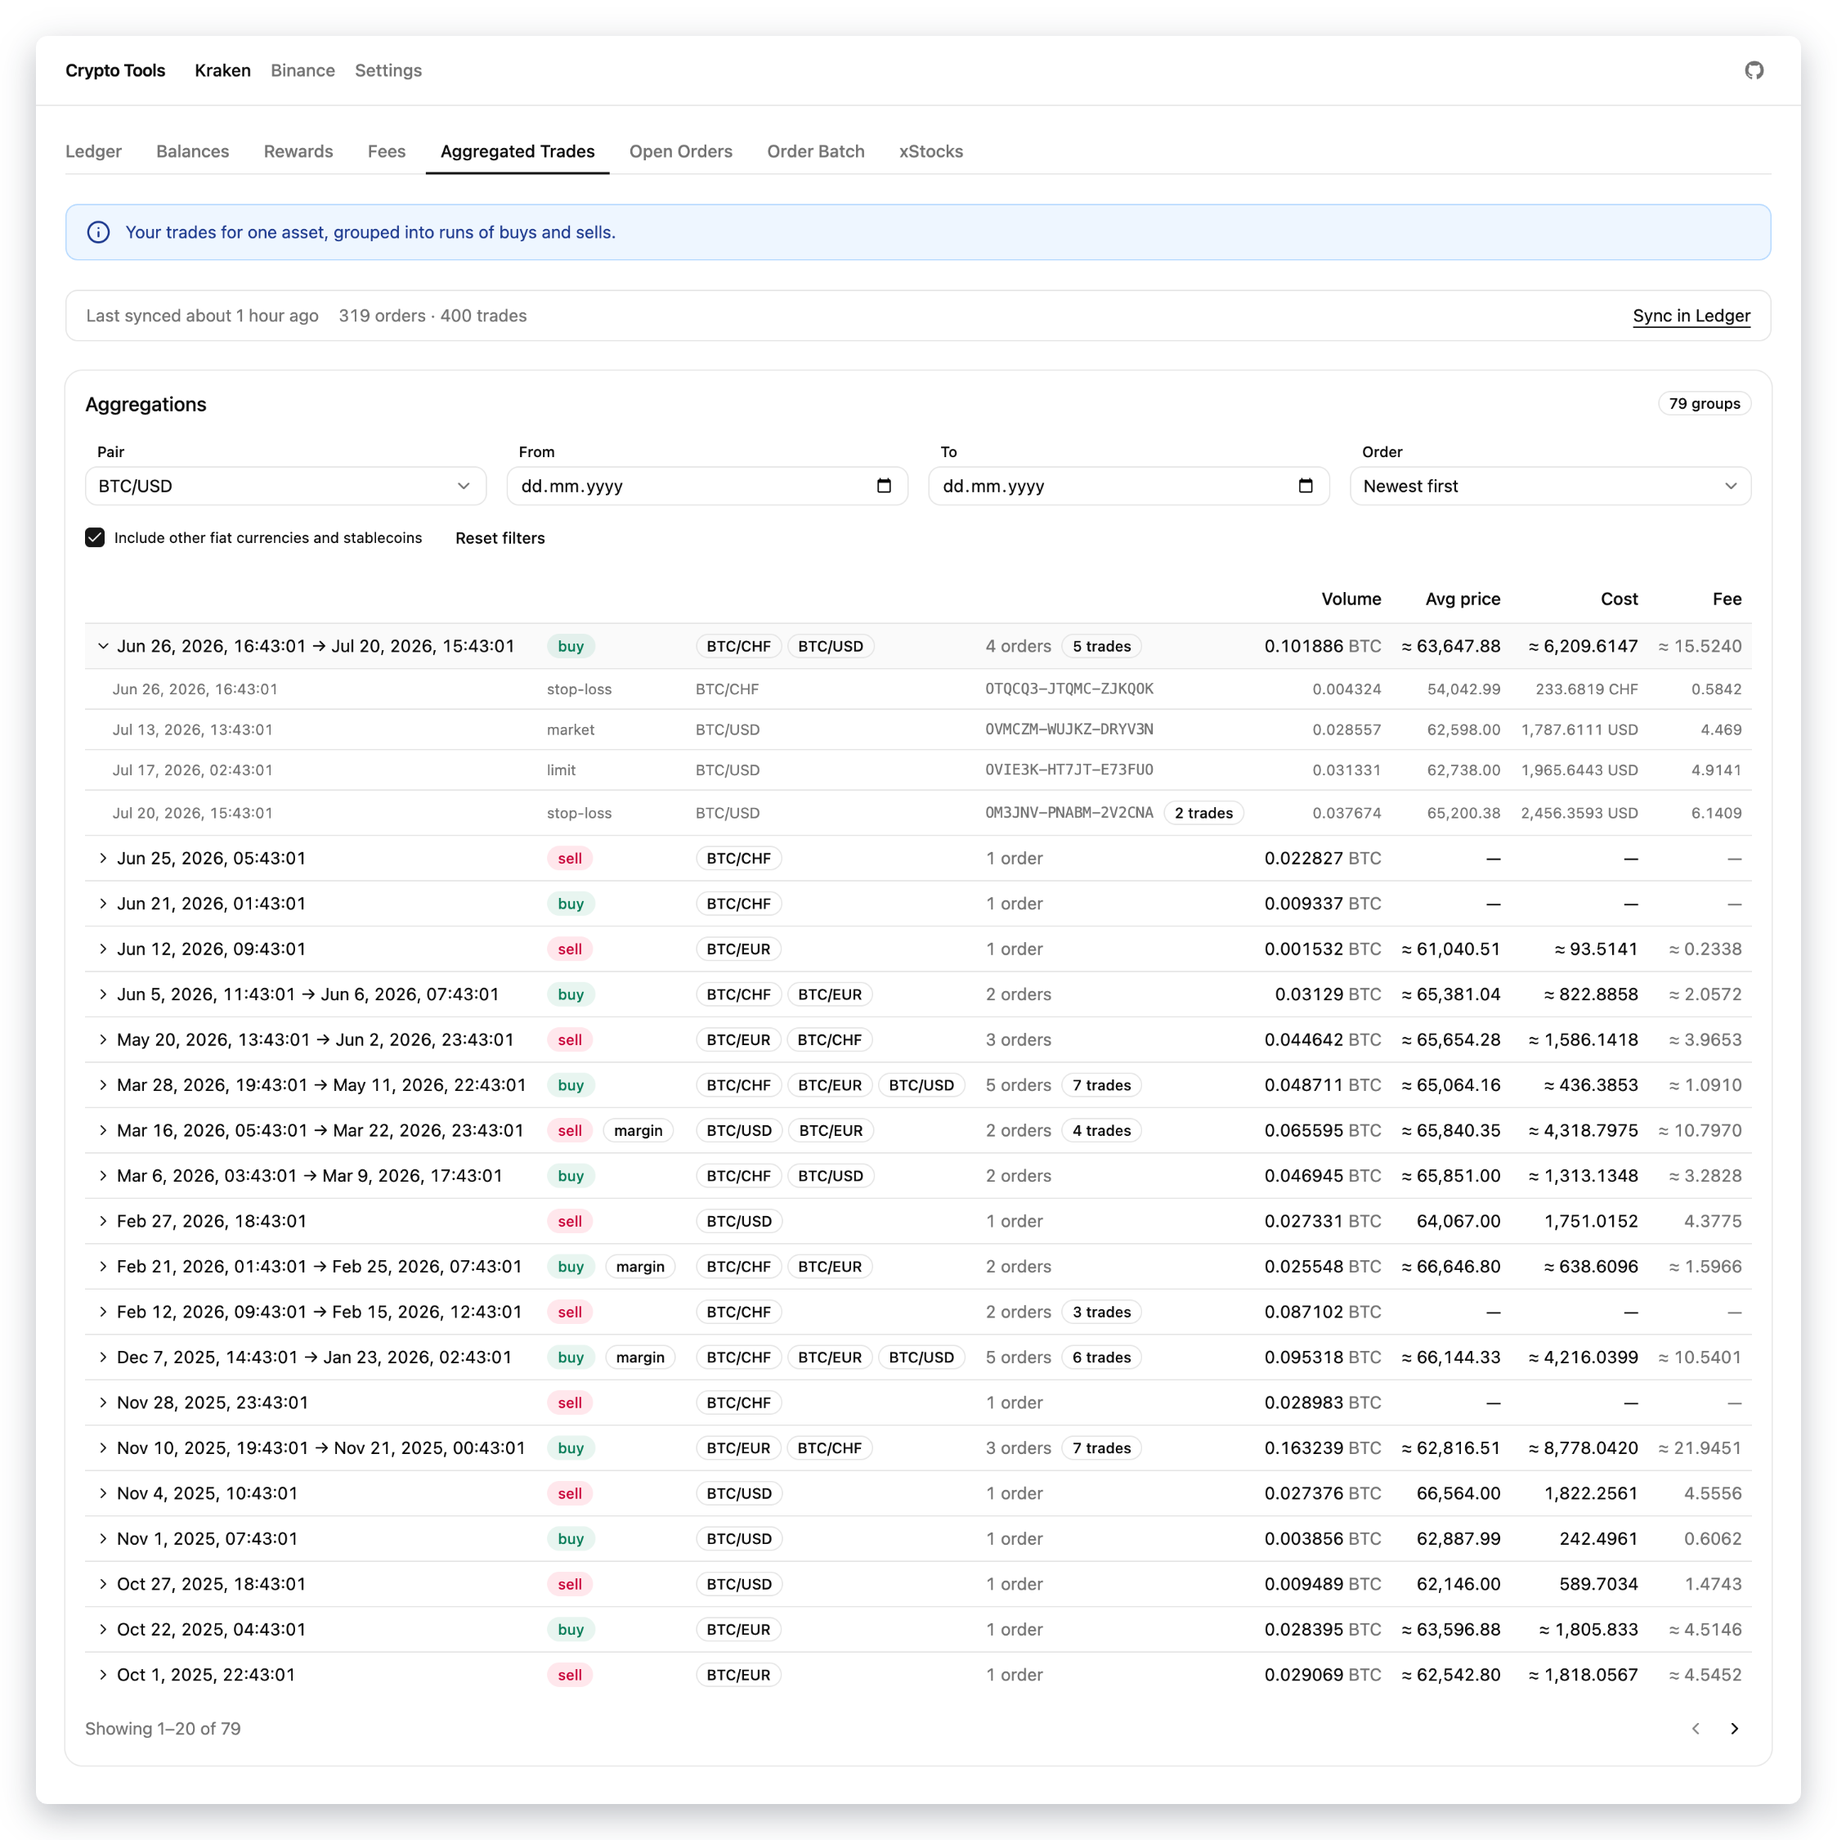
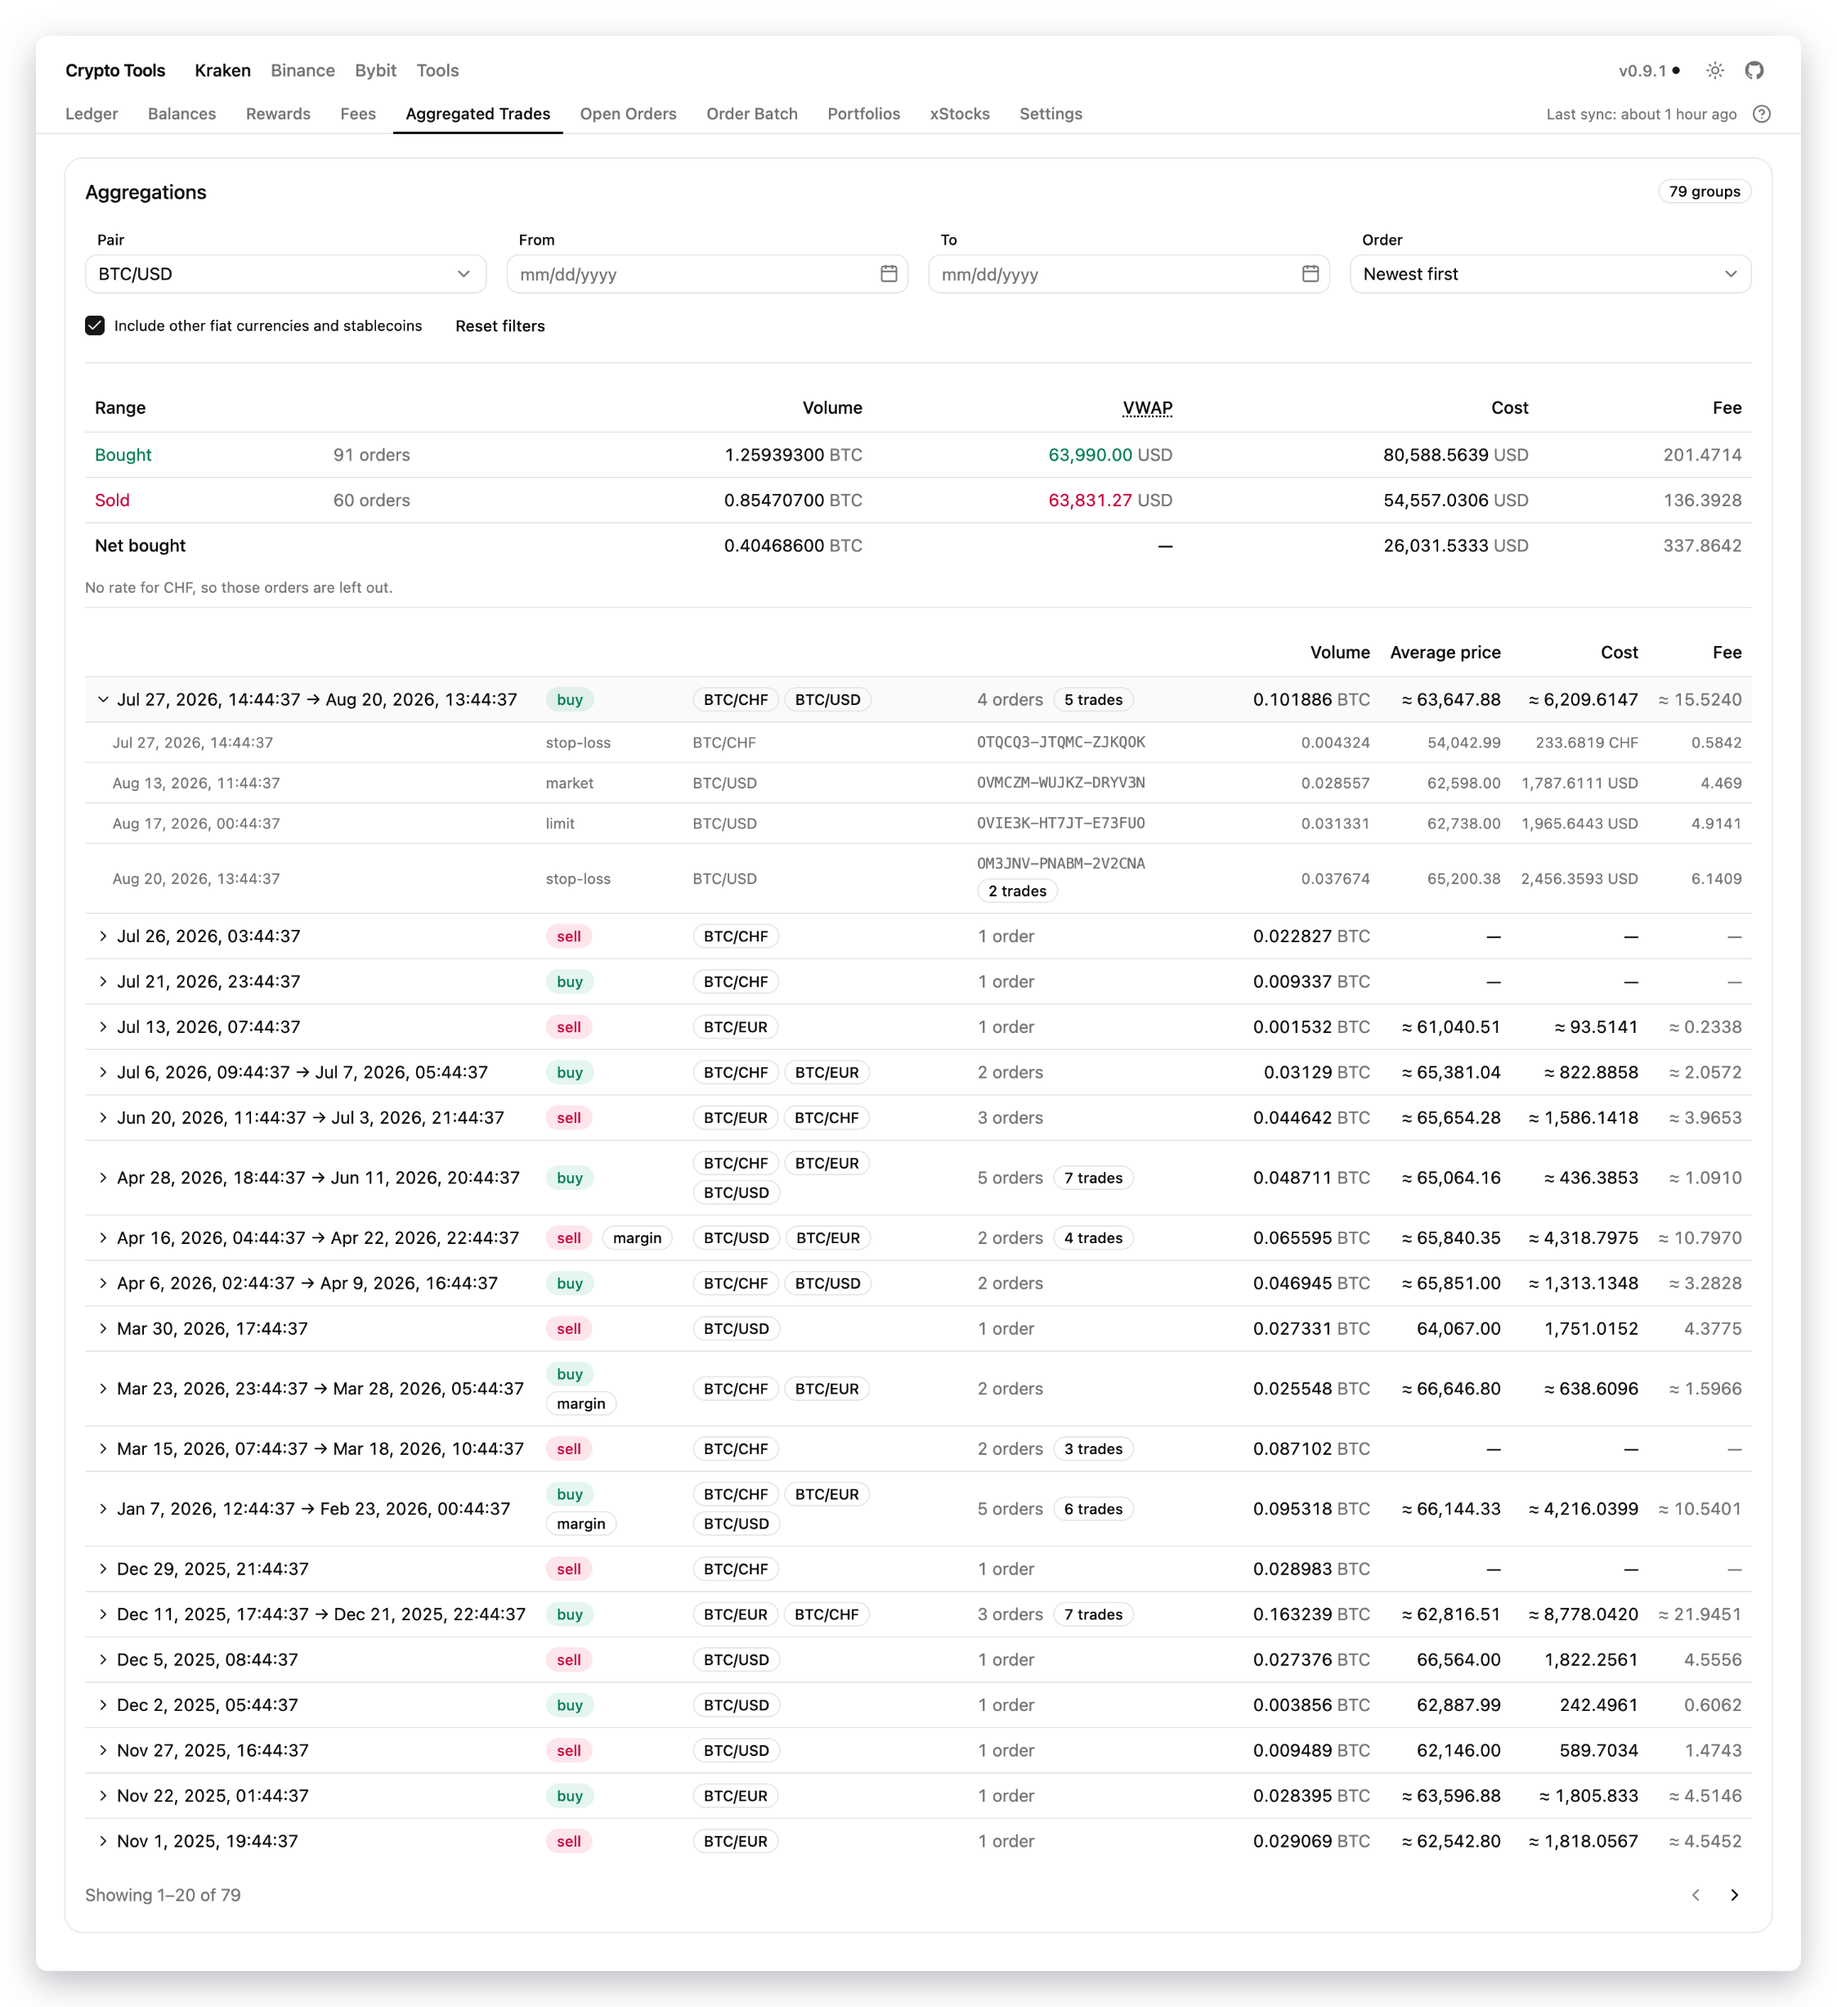
docs(readme): refresh the screenshots and show Bybit portfolios
Retaken with `bun run screenshots`. The previous set predated the per-exchange sub-nav, dark mode's header, Aggregated Trades and the portfolio pages, and the Bybit portfolios section had no screenshot at all.

diff --git a/README.md b/README.md
@@ -65,7 +65,11 @@ A collection of cryptocurrency tools for [Kraken](https://www.kraken.com/), [Bin
 
 <br>
 
-**Portfolios** — define baskets of coins with target weights inside one Bybit unified trading account, deposit coins already on the account into them, and withdraw or rebalance with spot market orders. Every order is previewed first and only placed once you confirm; each portfolio's holdings are tracked on this machine from its own deposits and fills, so several portfolios can share one account and trades you make on Bybit yourself never touch them. Each target coin can also carry a stop price: the app rests a spot conditional order on Bybit for the portfolio's holding of that coin, keeps it the right size around every run, deposit and adjustment, and when it fires records the sell, drops the coin from the targets and moves its weight to cash so a rebalance does not buy it straight back. A Demo switch runs the same thing against Bybit's demo trading account. The API key needs the Read and Spot trade permissions, and never the Withdrawal one.
+**Portfolios**
+
+![Bybit Portfolios](public/screenshot-bybit-portfolios.png)
+
+Define baskets of coins with target weights inside one Bybit unified trading account, deposit coins already on the account into them, and withdraw or rebalance with spot market orders. Every order is previewed first and only placed once you confirm; each portfolio's holdings are tracked on this machine from its own deposits and fills, so several portfolios can share one account and trades you make on Bybit yourself never touch them. Each target coin can also carry a stop price: the app rests a spot conditional order on Bybit for the portfolio's holding of that coin, keeps it the right size around every run, deposit and adjustment, and when it fires records the sell, drops the coin from the targets and moves its weight to cash so a rebalance does not buy it straight back. A Demo switch runs the same thing against Bybit's demo trading account. The API key needs the Read and Spot trade permissions, and never the Withdrawal one.
 
 </details>
 
